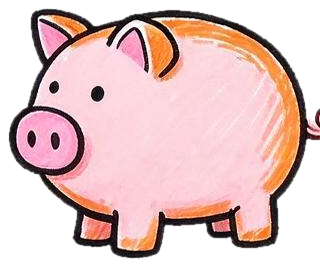
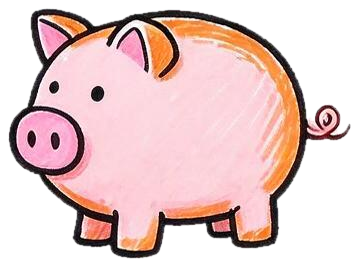
道具切图每格向外多取 18%，存钱罐尾巴等伸出格子的部分不再被切掉

diff --git a/aniu/make_assets.py b/aniu/make_assets.py
@@ -148,6 +148,14 @@ def poses_by_blob(img: Image.Image, n: int) -> list[Image.Image]:
     return out
 
 
+def padded_grid(img: Image.Image, cols: int, rows: int, pad: float = 0.18) -> list[Image.Image]:
+    """每格向四周多取 18%：伸出格子的尾巴、把手不会被切掉；邻格伸进来的东西由 largest_blob 去掉。"""
+    w, h = img.width / cols, img.height / rows
+    return [img.crop((int(max(0, (c - pad) * w)), int(max(0, (r - pad) * h)),
+                      int(min(img.width, (c + 1 + pad) * w)), int(min(img.height, (r + 1 + pad) * h))))
+            for r in range(rows) for c in range(cols)]
+
+
 def split(name: str, raw: Path):
     img = Image.open(raw).convert("RGB")
     if name in POSES:
@@ -156,7 +164,7 @@ def split(name: str, raw: Path):
     elif name in SINGLE:
         cutout(largest_blob(img)).save(PUB / f"{name}.png")
     elif name == "props":
-        for label, cell in zip(PROPS, grid(img, 4, 3)):
+        for label, cell in zip(PROPS, padded_grid(img, 4, 3)):
             cutout(largest_blob(cell), outline=7).save(PUB / f"prop_{label}.png")
 
 
